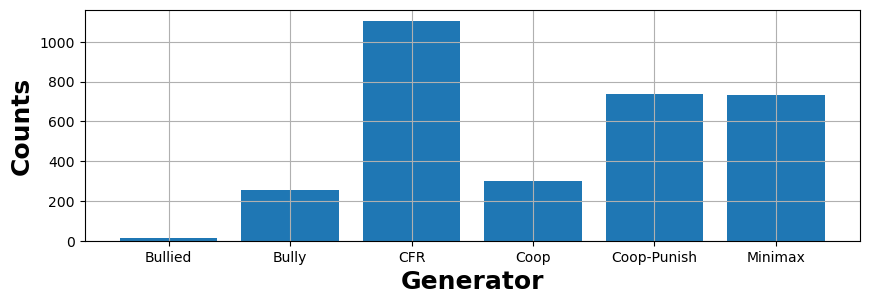
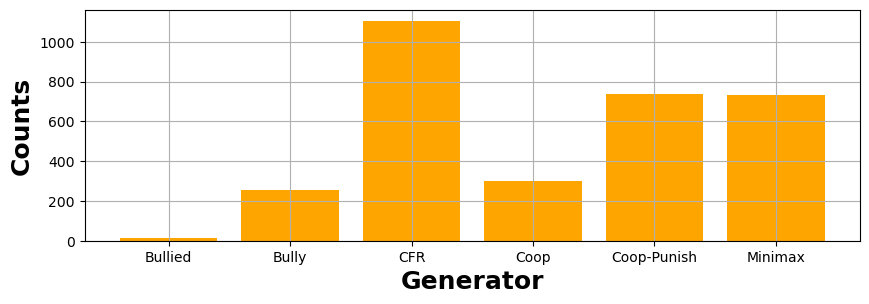
Update plot colors

Changed region(s): [[0.2796, 0.0592, 0.9632, 0.7993], [0.1243, 0.7697, 0.2486, 0.7993]]

diff --git a/simulations/generator_usages.py b/simulations/generator_usages.py
@@ -69,7 +69,7 @@ for agent_name in agent_names:
     generator_usage = df[[f'generator_{i}' for i in range(N_GENERATORS)]].sum()
     plt.figure(figsize=(10, 3))
     plt.grid()
-    plt.bar(generator_usage.index, generator_usage.values)
+    plt.bar(generator_usage.index, generator_usage.values, color='orange')
     plt.xticks(ticks=range(N_GENERATORS), labels=['Bullied', 'Bully', 'CFR', 'Coop', 'Coop-Punish', 'Minimax'])
     plt.xlabel('Generator', fontsize=18, fontweight='bold')
     plt.ylabel('Counts', fontsize=18, fontweight='bold')
